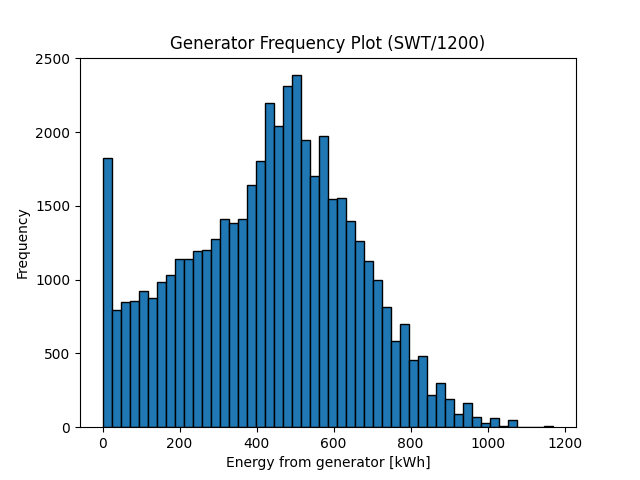
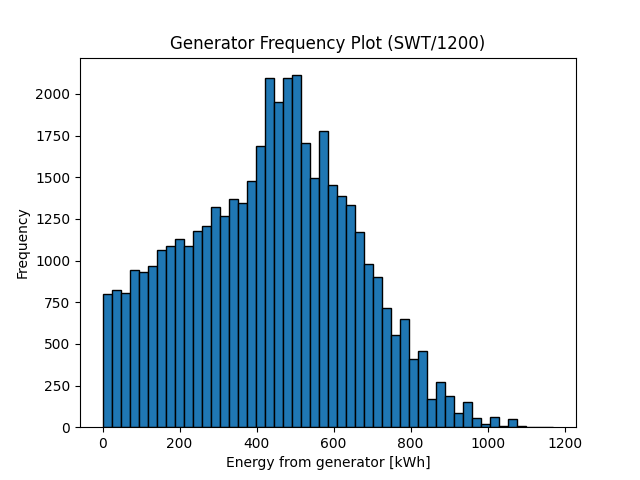
03.05

diff --git a/main.py b/main.py
@@ -62,7 +62,7 @@ total_gen = []
 # Select turbine
 # https://openenergy-platform.org/dataedit/view/supply/wind_turbine_library
 if wind_mode:
-    name = 'SWT-2.3-113'  # GE 2.5-120, E-53/800(not offshore), V100/1800, S2x (O H), SWT-2.3-113 (L V)
+    name = 'S2x'  # GE 2.5-120, E-53/800(not offshore), V100/1800, S2x (O H), SWT-2.3-113 (L V)
     turbine, turbines = turbineinfo(name)
 
 # String splitting
@@ -71,14 +71,13 @@ if wind_mode:
     hub_height = string_to_float(turbine.hub_height)
 
     #  Wind height
-    h = hub_height[-1]
-    h = 50  # Set desirable wind height
+    h = hub_height[-1]  # Set desirable wind height
     c_wind, c_same = c_height(wind, h)  # Calls wind_height module
     c_name = 'Wind Speed ' + str(h)  # Sets name of column
     if not c_same:
         wind[c_name] = np.array(c_wind)  # Adds new wind speed into dataframe with column-name c_name
 
-wind_speed_histogram(wind[c_name], 1, h)
+#wind_speed_histogram(wind[c_name], 1, h)
 df_generator = pd.DataFrame()
 df_generator['time'] = idx
 df_max = pd.DataFrame()
@@ -157,9 +156,9 @@ for i in range(len(n_turbines)):
         generatorlist.append(np.sum(diesel_kwh))
         print(f'Calculated scenario: {i},{j}')
         #total_gen.append(np.sum(df_generator[f'{i},{j}']))
-diesel = [i for i in diesel_kwh if i != 0]
-dieseldf = pd.DataFrame(data=diesel)
-confreq(dieseldf)
+#diesel = [i for i in diesel_kwh if i != 0]
+#dieseldf = pd.DataFrame(data=diesel)
+#confreq(dieseldf)
 time_plot = False
 scenario_text = True
 multiple_text = False

diff --git a/Calculation_module.py b/Calculation_module.py
@@ -26,13 +26,14 @@ def wind_bat_gen(power_output, consumption, X, gen, n_batteries):
         needed[x] = consumption[x] - power_output[x]  # needed > 0 means energy deficit
         battery_old = battery
         battery, min_charge, needed[x], change = bat(battery, max_charge, battery_capacity, needed[x])
+        new_charge = min(max_charge, max_charge - change)
         if min_charge:
             generator_mode = True
         if needed[x] > 0 and power_output[x] < consumption[x]:  # check if there is not enough wind power and battery is not charged enough
             if battery < 0.8 * battery_capacity:  # check if battery is not almost fully charged
                 generator_mode = True
         if generator_mode:  # Checks if generator is on
-            diesel_kwh[x], battery, needed[x], change = gen_drain(needed[x], battery, max_charge, battery_capacity,
+            diesel_kwh[x], battery, needed[x], change = gen_drain(needed[x], battery, new_charge, battery_capacity,
                                                                   change, gen)
             operative += 1
             on += 1

diff --git a/diesel_aggregate.py b/diesel_aggregate.py
@@ -27,9 +27,9 @@ def gen_drain(needed, battery, max_charge, capacity, change, gen):
         if gen_eff > needed:
             kwh = needed
             remain = gen_eff - needed
-            if change == 0:  # Does not go through
-                battery, lower, needed, change = bat(battery, max_charge, capacity, remain)
-                kwh = kwh + change
+            #if change == 0:  # Does not go through
+            battery, lower, needed, change = bat(battery, max_charge, capacity, remain)
+            kwh = kwh + change
             needed = 0
         elif gen_eff <= needed:
             kwh = gen_eff
